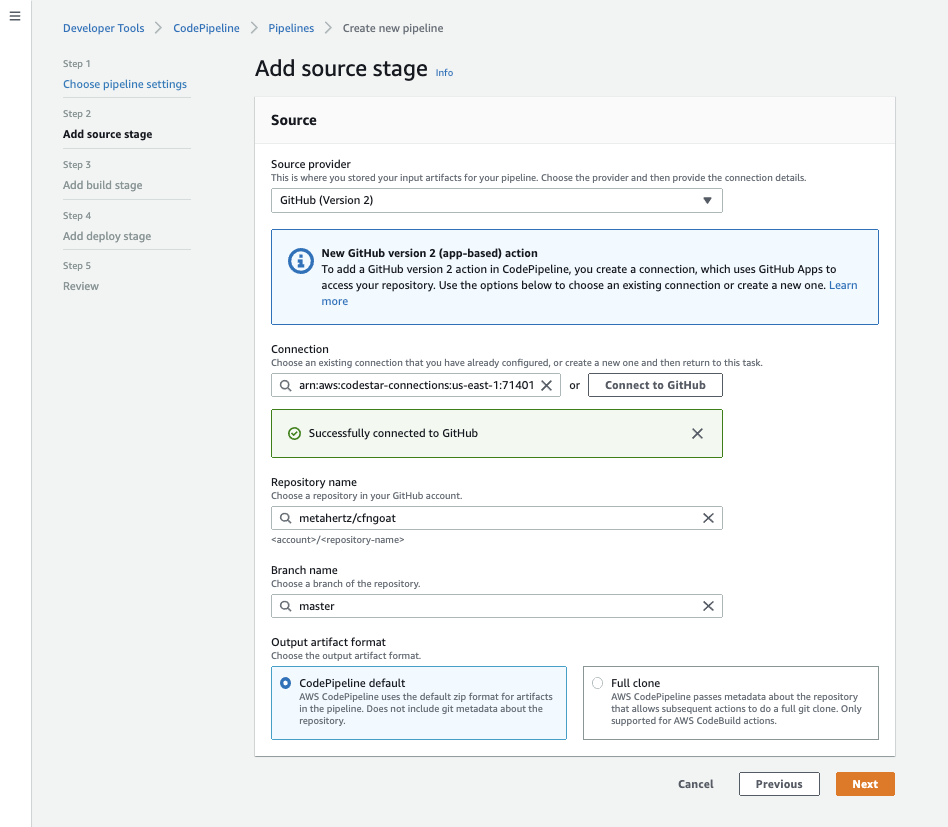
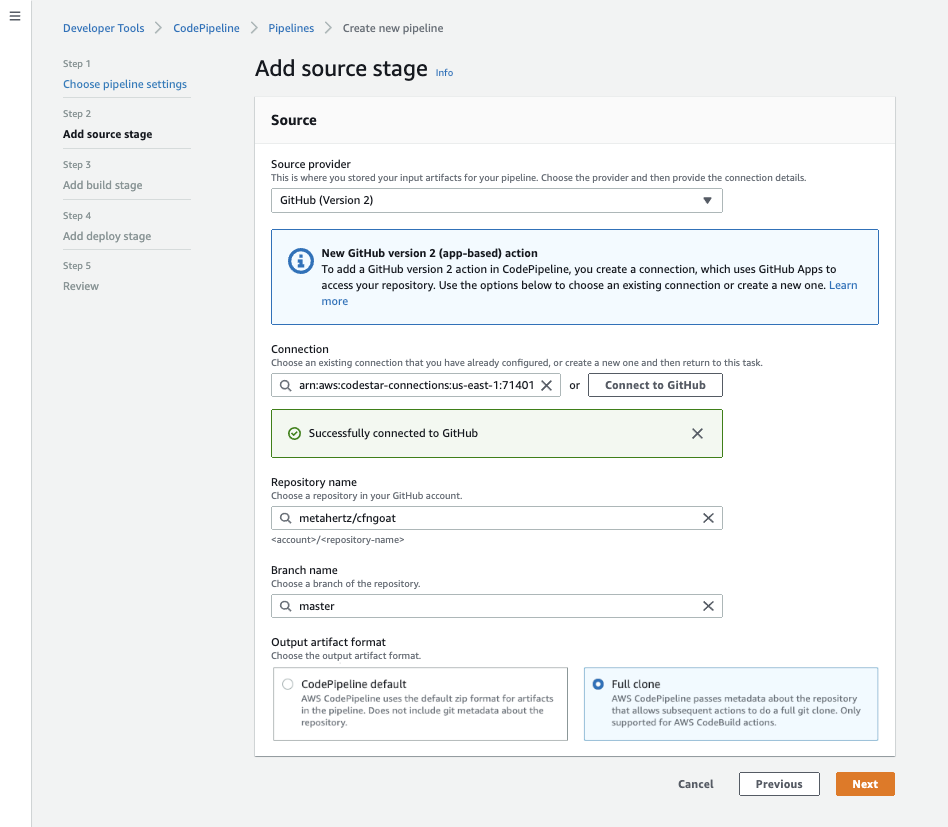
Updated to full clone directions

Changed region(s): [[0.6118, 0.786, 0.9177, 0.9069], [0.2753, 0.8162, 0.5812, 0.9069]]

diff --git a/content/aws/20_module_two/2004_automating_iac_codepipeline.md b/content/aws/20_module_two/2004_automating_iac_codepipeline.md
@@ -42,7 +42,7 @@ The CodePipeline screen should refresh with a green **Sucessfully connected to G
 
 ![AWS CodePipeline Github connected OK](./images/codepipeline-create-project-github-9.png "AWS CodePipeline Github connected OK")
 
-Now that CodePipeline has access to our GitHub repository, we can select it as the pipeline source. Select the **master** (or **main** branch) to have our pipeline run when commits to this branch occur:
+Now that CodePipeline has access to our GitHub repository, we can select it as the pipeline source. Select the **master** (or **main** branch) to have our pipeline run when commits to this branch occur and **Full clone**:
 
 ![AWS CodePipeline Select Repo](./images/codepipeline-create-project-github-10.png "AWS CodePipeline Select Repo")
 
@@ -58,7 +58,36 @@ On the next screen, select **Skip deploy stage**. We don’t want to deploy our 
 
 ![AWS CodePipeline Select Repo](./images/codepipeline-create-project-github-12.png "AWS CodePipeline Select Repo")
 
-Finally, select **Create pipeline** on the review page, which will trigger your new CodePipeline to immediately run against the latest commit in our CfnGoat repository:
+Copy the ARN from under "ConnectionArn" under "Step 2: Add source stage." In the example above it's `arn:aws:codestar-connections:us-east-1:714...`.
+
+![AWS CodePipeline Select Repo](./images/codepipeline-create-project-github-13.png "AWS CodePipeline Select Repo")
+
+Now go to the [AWS IAM dashboard](https://console.aws.amazon.com/iamv2), click on **Roles** and search for the role created by CodePipeline ("cfngoat" should help you find it.). Click on that role.
+
+![CFN IAM role](./images/cfn-iam-role.png "CFN IAM role")
+
+Under **Add permissions** click on **Attach policies** then **Create policies**. Click on JSON and fill in the following, replacing the ARN with your ARN from CodePipeline (should still be in your clipboard).
+
+```JSON
+{
+    "Version": "2012-10-17",
+    "Statement": [
+        {
+            "Effect": "Allow",
+            "Action": "codestar-connections:UseConnection",
+            "Resource": "insert connection ARN here"
+        }
+    ]
+}
+```
+
+![IAM Role](./images/json-iam-role.png "IAM Role")
+
+Don't worry about tags. Give your policy a name like `connection-permissions` and then **Create policy**. Return to the IAM page where you were attaching permissions, refresh the policy list, and select the policy you just created. Choose Attach policies.
+
+![IAM policy attach](./images/gitclone-role-policy-attach.png "IAM policy attach")
+
+Finally, go back to your CodePipeline and select **Create pipeline** on the review page, which will trigger your new CodePipeline to immediately run against the latest commit in our CfnGoat repository:
 
 ![AWS CodePipeline Select Repo](./images/codepipeline-create-project-github-13.png "AWS CodePipeline Select Repo")
 
